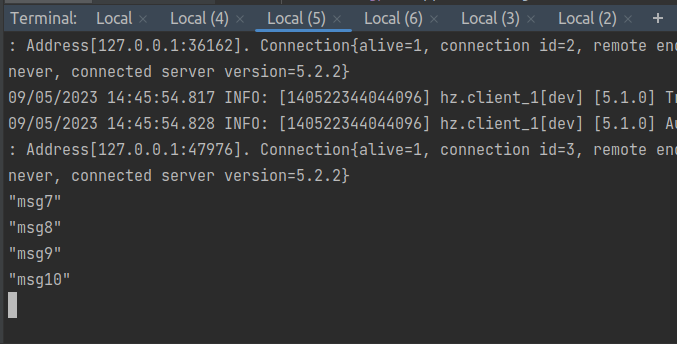
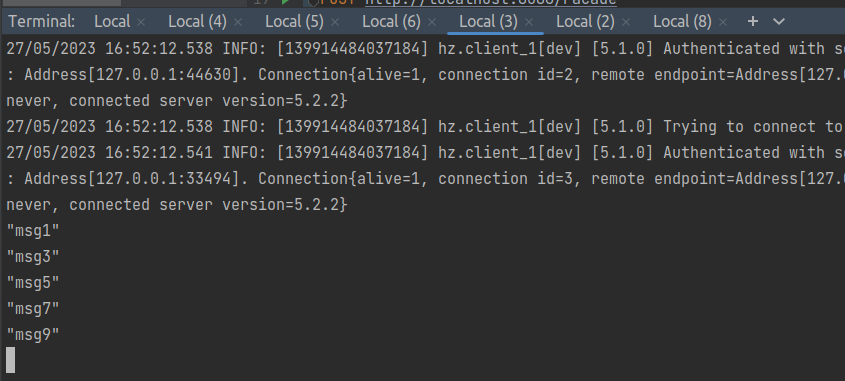
Add lab

Changed region(s): [[0.0, 0.0, 1.0, 0.7558], [0.0, 0.7849, 0.0931, 0.9884]]

diff --git a/facade/facade_service.h b/facade/facade_service.h
@@ -9,7 +9,14 @@
 #include <string>
 #include <random>
 #include <hazelcast/client/hazelcast.h>
+#include <ppconsul/agent.h>
+#include <ppconsul/catalog.h>
+#include "ppconsul/kv.h"
 
+using ppconsul::Consul;
+using namespace ppconsul::agent;
+using namespace ppconsul::catalog;
+using namespace ppconsul::kv;
 using namespace hazelcast::client;
 
 namespace ht = httpserver;
@@ -18,42 +25,66 @@ namespace bo = boost::uuids;
 class FacadeService {
 private:
     bo::random_generator  generator{};
-    std::vector<cpr::Url> message_clients{"http://localhost:8081/messages_service",
-                                          "http://localhost:8082/messages_service"};
-
-    std::vector<cpr::Url> logging_clients{cpr::Url{"http://localhost:8083/logging_service"},
-                                             cpr::Url{"http://localhost:8084/logging_service"},
-                                             cpr::Url{"http://localhost:8085/logging_service"}};
     hazelcast_client hz;
     std::shared_ptr<iqueue> que;
+
+    std::string msg_serv = "Messages";
+    std::string log_serv = "Logging";
+
+    Consul consul;
+    Agent agent;
+    Catalog catalog;
+    Kv kv;
+
+    std::string serv_id;
 public:
-    FacadeService(): hz{hazelcast::new_client().get()},
-                     que{hz.get_queue("messages_queue").get()}  {
+    FacadeService(int port): hz{hazelcast::new_client().get()},
+                     agent{consul},
+                     catalog{consul},
+                     kv{consul}{
+
+
         std::srand(time(nullptr));
+
+
+        serv_id = "127.0.0.1:" + std::to_string(port) + "/Facade";
+        agent.registerService(
+                ppconsul::agent::kw::name = "Facade",
+                ppconsul::agent::kw::port = port,
+                ppconsul::agent::kw::address = "127.0.0.1",
+                ppconsul::agent::kw::id = serv_id
+        );
+
+        kv.set("msg_queue", "messages_queue");
+        kv.set("log_map", "logging_map");
+
+        std::string val = kv.get("msg_queue", "not found");
+
+        que = hz.get_queue(val).get();
+
     };
 
-    cpr::Url get_random_log_client() {
 
-        return logging_clients[std::rand() % logging_clients.size()];
+
+    cpr::Url get_consul_client(std::string name) {
+        auto servs = catalog.service(name);
+        auto rand_serv = servs[std::rand() % servs.size()];
+        return "http://" + rand_serv.second.address + ":" + std::to_string(rand_serv.second.port) + "/" + name;
     }
 
-    cpr::Url get_random_message_client() {
-//        std::srand(time(nullptr));
-        return message_clients[std::rand() % message_clients.size()];
-    }
 
     void add_messages(std::string msg) {
         que->put(msg).get();
 
         auto msg_uuid = bo::to_string(generator());
-        cpr::Response r = cpr::Post(get_random_log_client(),
+        cpr::Response r = cpr::Post(get_consul_client(log_serv),
                                     cpr::Payload{{msg_uuid, msg}});
     }
 
 
     std::string get_messages() {
-        cpr::Response logs = cpr::Get(get_random_log_client());
-        cpr::Response messages = cpr::Get(get_random_message_client());
+        cpr::Response logs = cpr::Get(get_consul_client(log_serv));
+        cpr::Response messages = cpr::Get(get_consul_client(msg_serv));
         return logs.text + ": " + messages.text;
     }
 };

diff --git a/logging/logging_service.h b/logging/logging_service.h
@@ -5,6 +5,15 @@
 #include <httpserver.hpp>
 #include <cpr/cpr.h>
 #include <hazelcast/client/hazelcast.h>
+#include <ppconsul/agent.h>
+#include <ppconsul/catalog.h>
+#include "ppconsul/kv.h"
+
+
+using ppconsul::Consul;
+using namespace ppconsul::agent;
+using namespace ppconsul::catalog;
+using namespace ppconsul::kv;
 
 using namespace hazelcast::client;
 
@@ -15,10 +24,32 @@ class LoggingService {
 private:
     hazelcast_client hz;
     std::shared_ptr<imap> logging_map;
-public:
-    LoggingService(): hz{hazelcast::new_client().get()}, logging_map{hz.get_map("logging_map").get()} {
 
+    Consul consul;
+    Agent agent;
+    Catalog catalog;
+    Kv kv;
+
+    std::string serv_id;
+public:
+    LoggingService(int port): hz{hazelcast::new_client().get()},
+                              agent{consul},
+                              catalog{consul},
+                              kv{consul} {
+
+        auto val = kv.get("log_map", "not found");
+        logging_map = hz.get_map(val).get();
+
+        serv_id = "127.0.0.1:" + std::to_string(port) + "/Logging";
+
+        agent.registerService(
+                ppconsul::agent::kw::name = "Logging",
+                ppconsul::agent::kw::port = port,
+                ppconsul::agent::kw::address = "127.0.0.1",
+                ppconsul::agent::kw::id = "127.0.0.1:" + std::to_string(port) + "/Logging"
+        );
     }
+
 
     void add_to_log(const std::map<std::string, std::string>& args) {
         for (const auto& el : args) {

diff --git a/messages/messages_service.h b/messages/messages_service.h
@@ -5,18 +5,51 @@
 #include <vector>
 #include <string>
 
+#include <ppconsul/agent.h>
+#include <ppconsul/catalog.h>
+#include "ppconsul/kv.h"
+
+
+using ppconsul::Consul;
+using namespace ppconsul::agent;
+using namespace ppconsul::catalog;
+using namespace ppconsul::kv;
+
+
 using namespace hazelcast::client;
 
 class MessagesService {
 private:
+    Consul consul;
+    Agent agent;
+    Catalog catalog;
+    Kv kv;
+
     hazelcast_client hz;
     std::shared_ptr<iqueue> que;
     std::vector<std::string> messages_in_memory;
-public:
-    MessagesService(): hz{hazelcast::new_client().get()},
-                       que{hz.get_queue("messages_queue").get()} {
 
+    std::string serv_id;
+public:
+    MessagesService(int port): agent{consul},
+                               catalog{consul},
+                               kv{consul},
+                               hz{hazelcast::new_client().get()} {
+
+        std::string val = kv.get("msg_queue", "not found");
+
+        que = hz.get_queue(val).get();
+
+        serv_id = "127.0.0.1:" + std::to_string(port) + "/Messages";
+
+        agent.registerService(
+                ppconsul::agent::kw::name = "Messages",
+                ppconsul::agent::kw::port = port,
+                ppconsul::agent::kw::address = "127.0.0.1",
+                ppconsul::agent::kw::id = serv_id
+        );
     };
+
 
     void get_messages_from_q() {
         auto val = que->take<std::string>().get().get();

diff --git a/facade/facade_controller.h b/facade/facade_controller.h
@@ -16,14 +16,15 @@ namespace bo = boost::uuids;
 class FacadeController : public ht::http_resource {
 private:
     bo::random_generator  generator;
-    FacadeService facade_service{};
+    FacadeService facade_service;
 
 public:
-    FacadeController(){};
+    FacadeController(int port): facade_service{port} {};
     std::shared_ptr<ht::http_response> render_POST(const ht::http_request& req) {
         facade_service.add_messages(std::string(req.get_content()));
         return std::shared_ptr<ht::http_response>(new ht::string_response("ok: 200"));
     }
+
 
     std::shared_ptr<ht::http_response> render_GET(const ht::http_request& req) {
         return std::shared_ptr<ht::http_response>(new ht::string_response(facade_service.get_messages()));

diff --git a/facade/facade_main.cpp b/facade/facade_main.cpp
@@ -1,10 +1,14 @@
 #include <iostream>
 #include "facade_controller.h"
 
-int main() {
-    httpserver::webserver web_serv = httpserver::create_webserver(8080);
-    FacadeController facade;
-    web_serv.register_resource("/facade_service", &facade);
+int main(int argc, char** argv) {
+    if (argc == 1) {
+        std::cerr << "You should specify port" << std::endl;
+        return -1;
+    }
+    httpserver::webserver web_serv = httpserver::create_webserver(atoi(argv[1]));
+    FacadeController facade{atoi(argv[1])};
+    web_serv.register_resource("/Facade", &facade);
     web_serv.start(true);
     return 0;
 }

diff --git a/messages/messages_controller.h b/messages/messages_controller.h
@@ -9,8 +9,11 @@ namespace ht = httpserver;
 
 class MessagesController : public ht::http_resource {
 private:
-    MessagesService message_service{};
+    MessagesService message_service;
 public:
+    MessagesController(int port): message_service{port} {
+
+    }
     std::shared_ptr<ht::http_response> render_GET(const ht::http_request&) {
         return std::shared_ptr<ht::http_response>(new ht::string_response(message_service.get_messages()));
     }

diff --git a/messages/messages_main.cpp b/messages/messages_main.cpp
@@ -6,8 +6,8 @@ int main(int argc, char** argv) {
         return -1;
     }
     httpserver::webserver web_serv = httpserver::create_webserver(atoi(argv[1]));
-    MessagesController messages;
-    web_serv.register_resource("/messages_service", &messages);
+    MessagesController messages(atoi(argv[1]));
+    web_serv.register_resource("/Messages", &messages);
     web_serv.start(false);
 
     while(true) {

diff --git a/logging/logging_controller.h b/logging/logging_controller.h
@@ -13,9 +13,9 @@ namespace ht = httpserver;
 
 class LoggingController : public ht::http_resource {
 private:
-    LoggingService logging_service{};
+    LoggingService logging_service;
 public:
-    LoggingController(){};
+    LoggingController(int port): logging_service{port} {};
 
     std::shared_ptr<ht::http_response> render_POST(const ht::http_request& req) {
         auto args = req.get_args();

diff --git a/logging/logging_main.cpp b/logging/logging_main.cpp
@@ -6,8 +6,8 @@ int main(int argc, char** argv) {
         return -1;
     }
     httpserver::webserver web_serv = httpserver::create_webserver(atoi(argv[1]));
-    LoggingController logging;
-    web_serv.register_resource("/logging_service", &logging);
+    LoggingController logging(atoi(argv[1]));
+    web_serv.register_resource("/Logging", &logging);
     web_serv.start(true);
 
 }

diff --git a/README.md b/README.md
@@ -1,55 +1,55 @@
 ### software_architecture
-# Lab 4 Minieieva
+# Lab 5 Minieieva
 
-GitHub link: https://github.com/DariaMinieieva/software_architecture/tree/micro_mq
+GitHub link: https://github.com/DariaMinieieva/software_architecture/tree/micro_consul
 
-In this task message queue was added for the communication between facade service and messages service.
+This laboratory uses consul to manage addresses and configs.
 
-There is an example of what is received by each of three logging services:
+Here is the consul output that shows that all services connected to it
 
-Logging service 1:
-![img](images/7.png)
+![img](images/1.png)
 
-Logging service 2:
-![img](images/6.png)
+To test this laboratory I sent 10 messages as in previous labs.
+There are 1 facade, 3 logging services and 2 messaging services.
 
-Logging service 3:
-![img](images/5.png)
-
-And example of what is received by each of two messages service:
-
-Messages service 1:
-![img](images/4.png)
-
-Messages service 2:
-![img](images/3.png)
-
-And some of the results of GET request to facade, (in square brackets messages returned by logging service and in round - by messages service).
-As we can see, all messages from logging service are returned, but messages service only returns what each instance has:
-
-Example 1:
+Here are examples of responces for POST requests:
 ![img](images/2.png)
 
-Example 2:
-![img](images/1.png)
+Here are outputs of logging services:
+
+![img](images/3.png)
+![img](images/4.png)
+![img](images/5.png)
+
+Here are the outputs of messages services:
+
+![img](images/6.png)
+![img](images/7.png)
+
+And two possible results from GET request to facade service:
+
+![img](images/8.png)
+![img](images/9.png)
 
 ## Usage
 
-To make usage of logging service easier, the port should be passed to it.
-
-So to start logging services you should do the following:
+This is how services should be started. The ports can be any value.
 
 ```bash
-./logging 8083
-./logging 8084
-./logging 8085
-```
-
-And to start messages service you should do this:
-
-```bash
+./logging 8080
 ./messages 8081
-./messages 8082
+./facade 8082
 ```
 
-Right now these ports are hardcoded.
+To start a consul you can use the following command:
+
+```bash
+consul agent -server -data-dir=/tmp/consul -bootstrap-expect=1
+```
+
+And to deregister consul services you can do the following:
+
+```bash
+consul services deregister -id=127.0.0.1:8086/Facade
+```
+You should specify the name and port to the service.
